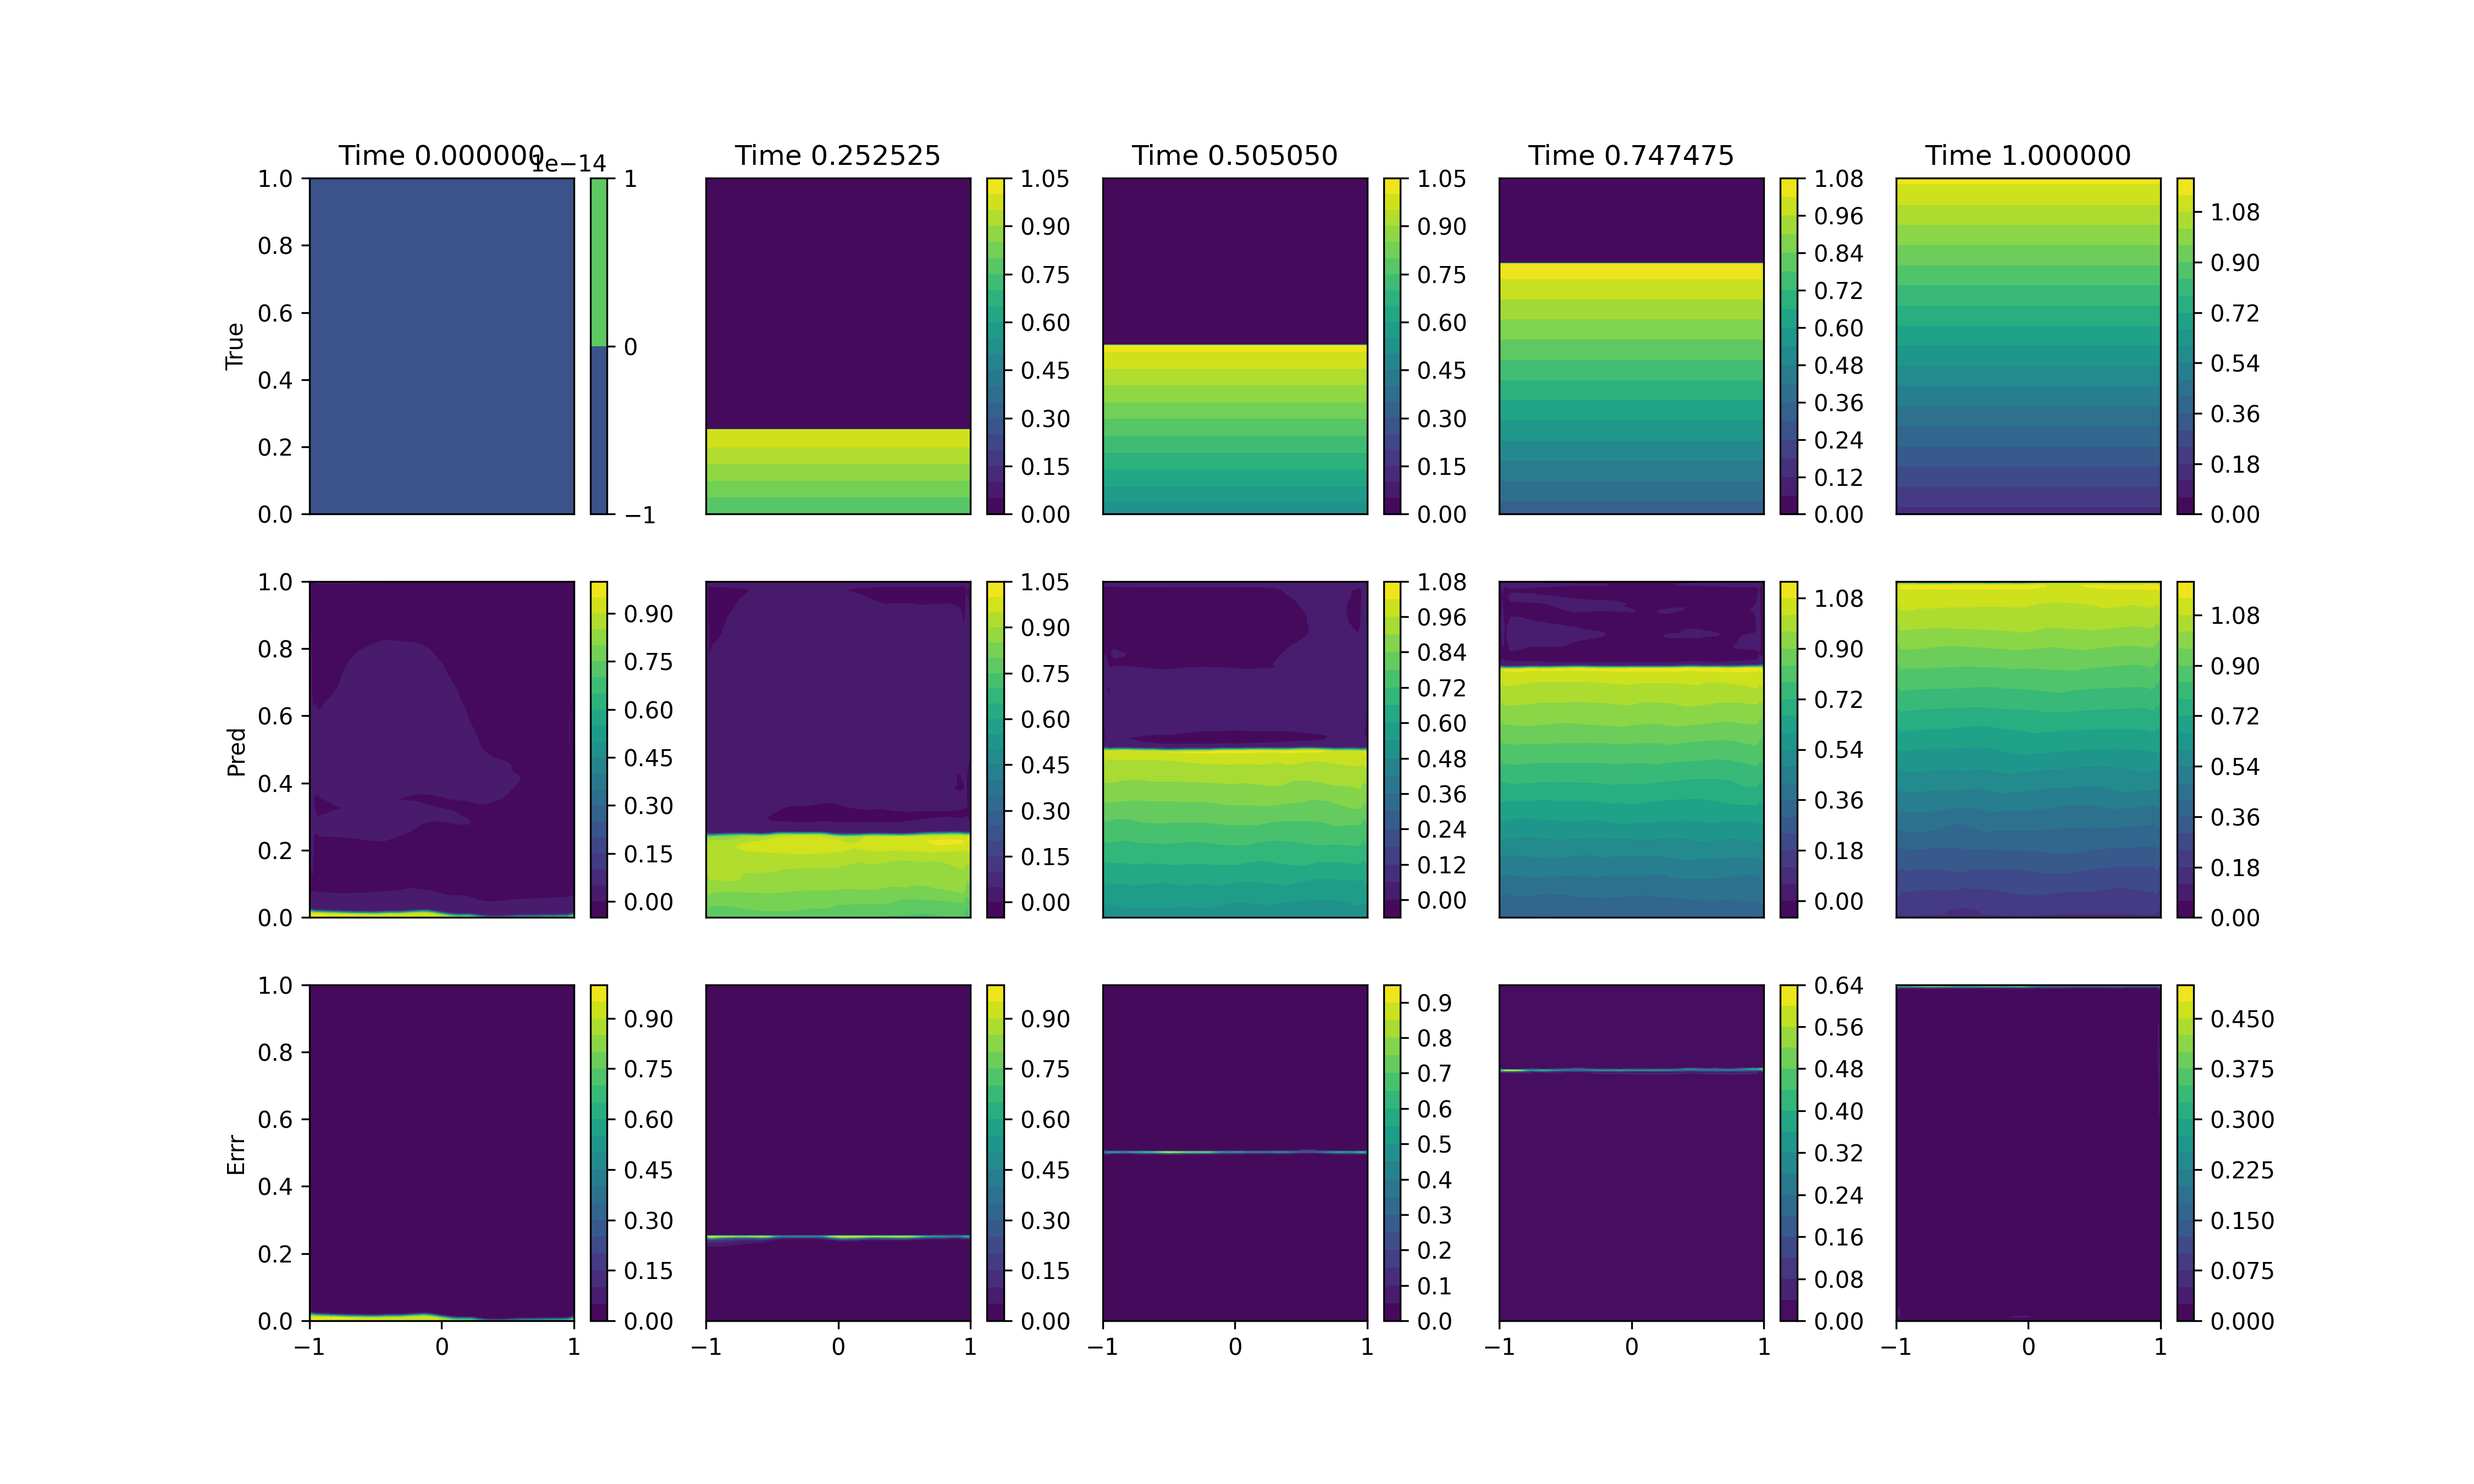
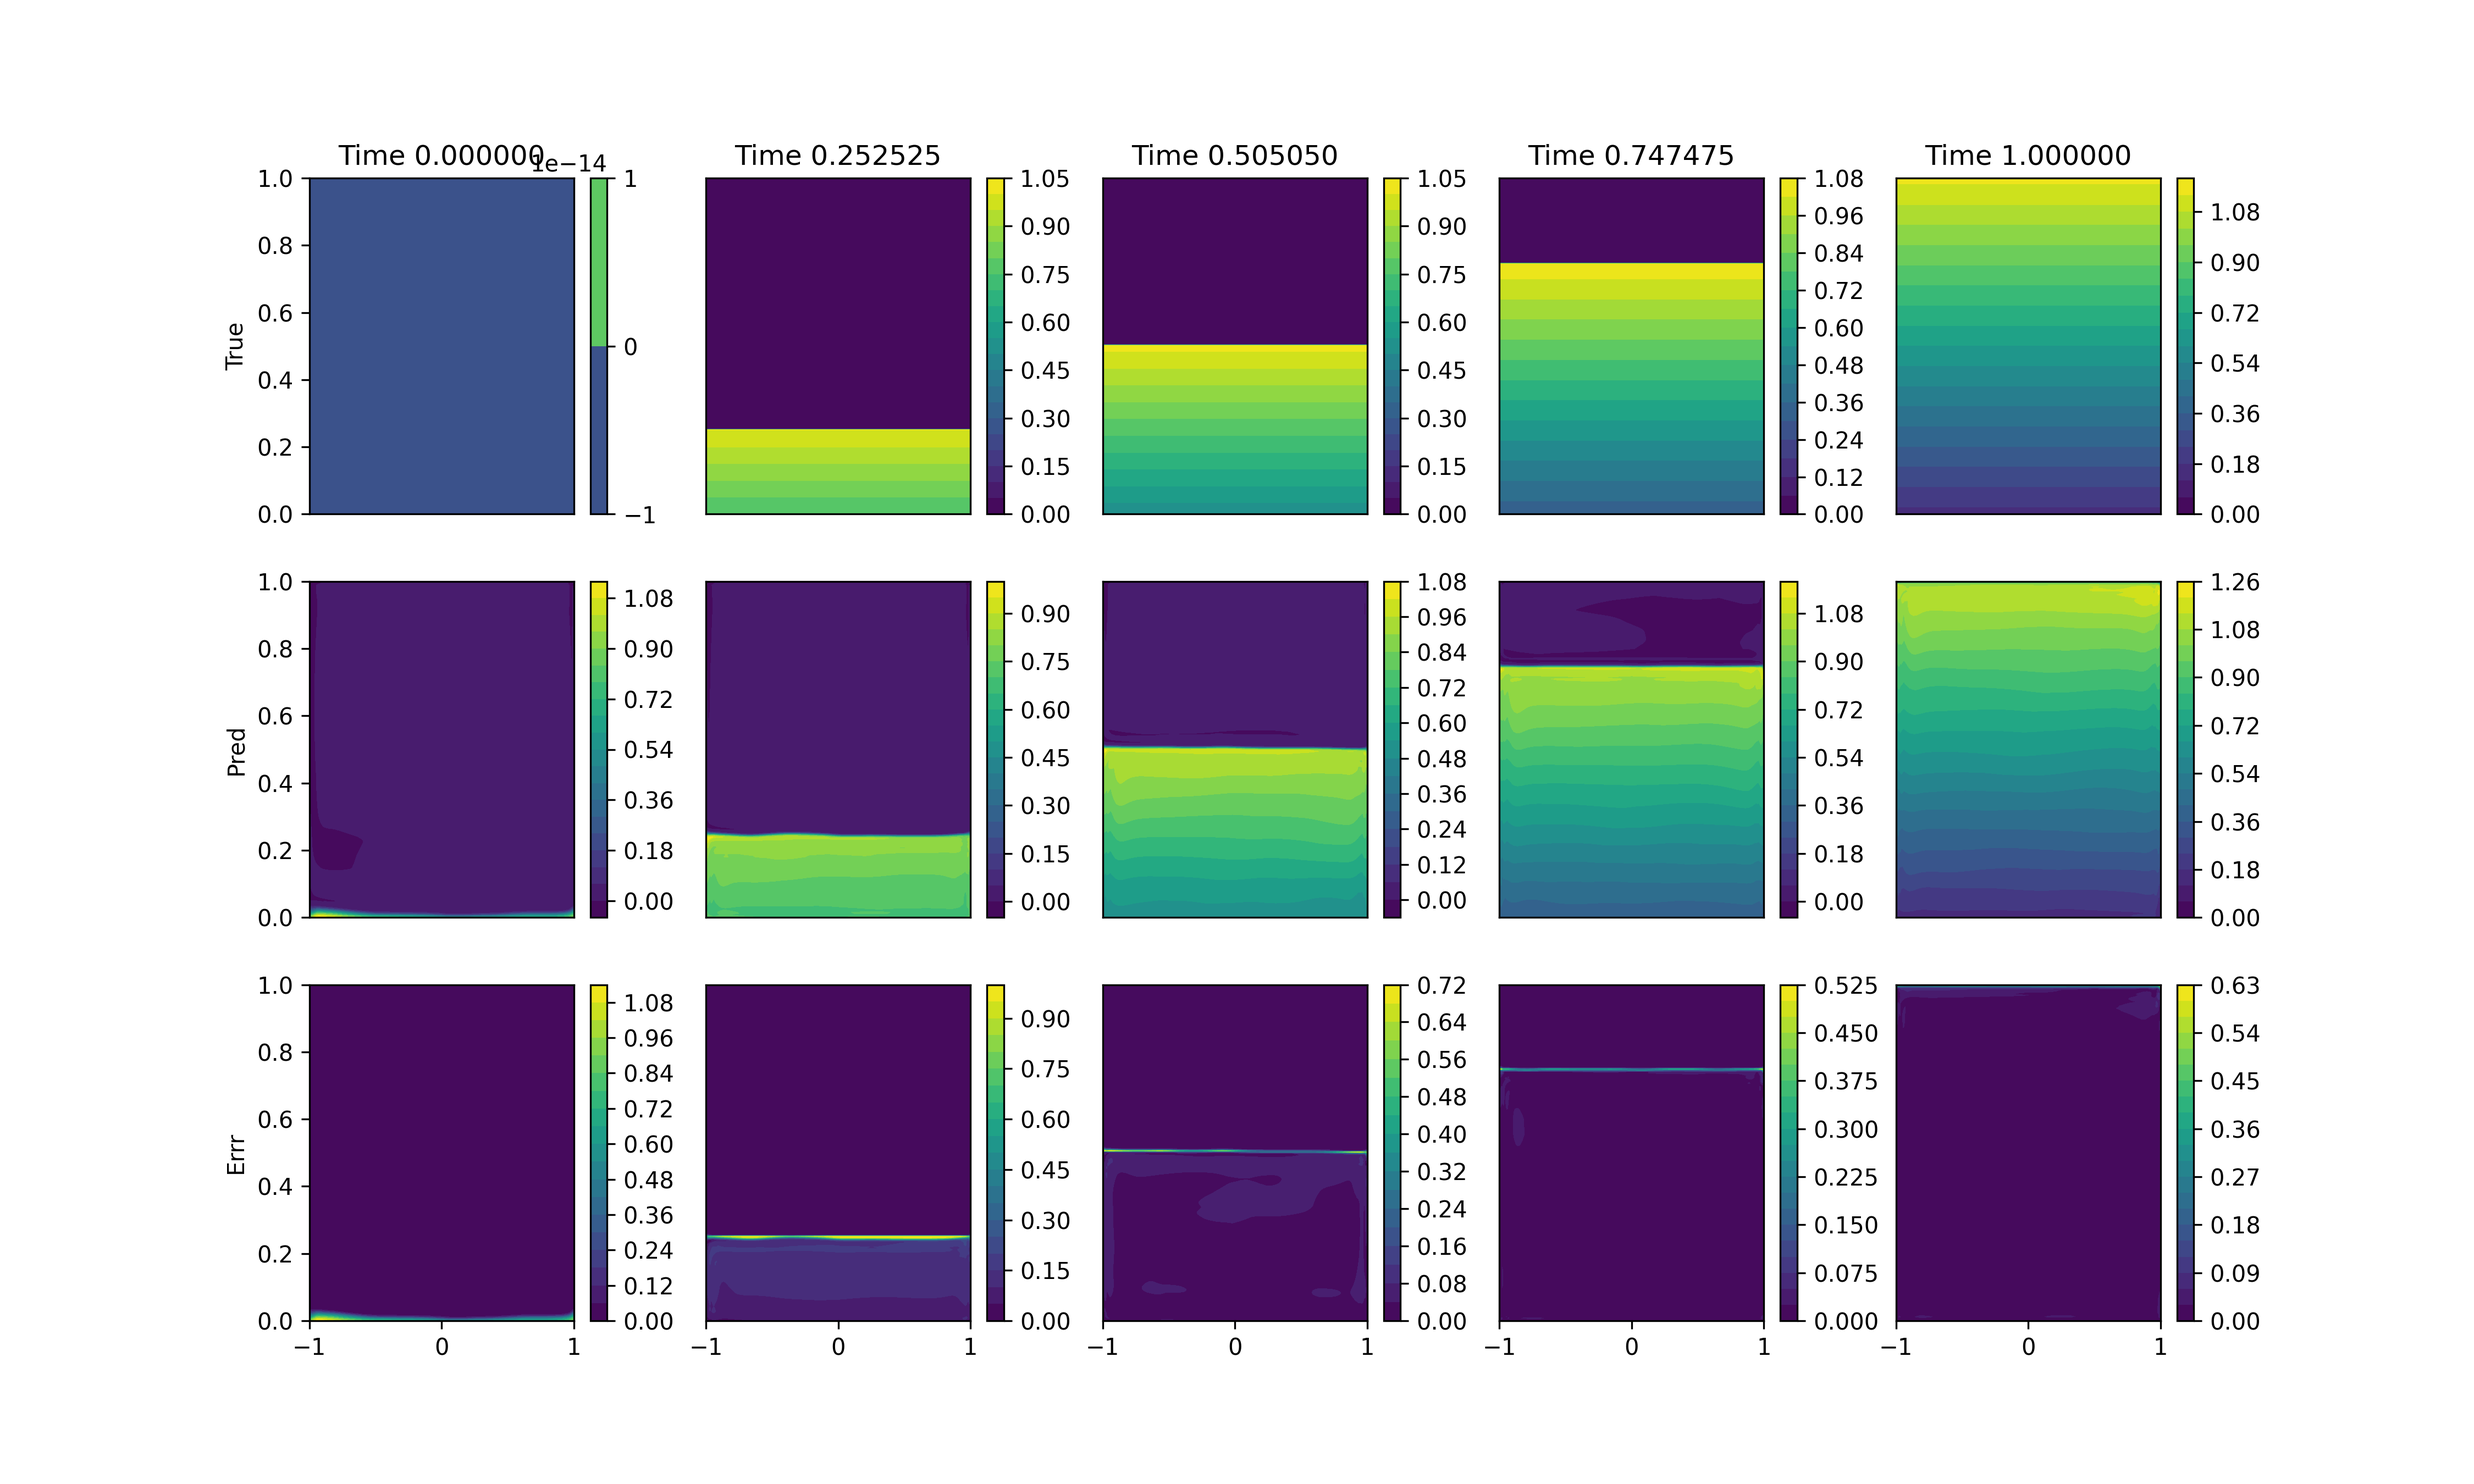
latest results. cannot get rid of the CNN error even with a larger kernel

diff --git a/sandbox/__main__.py b/sandbox/__main__.py
@@ -15,20 +15,21 @@ import argparse
 import sandbox
 import mlutils
 
-class UNetNextstep(nn.Module):
-    def __init__(self, shape, ci, co):
+class MaskedUNet(nn.Module):
+    def __init__(self, shape, ci, co, k):
         super().__init__()
 
         M = shape.final_mask().unsqueeze(0).unsqueeze(0)
         self.register_buffer('M', M)
-        self.unet = mlutils.UNet(ci, co)
+        self.unet = mlutils.UNet(ci, co, k)
         return
 
     def forward(self, x):
         x = self.unet(x)
         return x * self.M
 #
-def train_cnn_nextstep(device, outdir, resdir, name):
+
+def train_cnn_nextstep(device, outdir, resdir, name, train=True):
 
     modelfile = outdir + "cnn_nextstep_" + name + ".pth"
     imagefile = resdir + "cnn_nextstep_" + name + ".png"
@@ -44,76 +45,43 @@ def train_cnn_nextstep(device, outdir, resdir, name):
     nx, nz, nt = 256, 256, 100
     shape = sandbox.Shape(nx, nz, nt, nw1, nw2)
     data = sandbox.makedata(
-        shape, inputs="T", outputs="T", datatype="image-nextstep",
+        shape, inputs="tT", outputs="T", datatype="image-nextstep",
         mask="finaltime",
     )
 
     # MODEL
-    model = UNetNextstep(shape, 1, 1)
+    ci, co, k = 2, 1, 3
+    model = MaskedUNet(shape, ci, co, k)
 
     # TRAIN
-    lrs = [1e-3, 5e-4, 1e-4, 5e-5, 1e-5]
-    nes = [   2,    5,   10,   10,   10]
-    for i in range(len(lrs)):
-        kw = {
-            "device" : device,
-            "lr" : lrs[i],
-            "_batch_size" : 1,
-            "nepochs" : nes[i],
-        }
-        trainer = mlutils.Trainer(model, data, **kw)
-        trainer.train()
+    if train:
+        lrs = [1e-3, 5e-4, 1e-4, 5e-5, 1e-5]
+        nes = [   2,    5,   10,   10,   10]
+        for i in range(len(lrs)):
+            kw = {
+                "device" : device,
+                "lr" : lrs[i],
+                "_batch_size" : 1,
+                "nepochs" : nes[i],
+            }
+            trainer = mlutils.Trainer(model, data, **kw)
+            trainer.train()
 
-    torch.save(model.to("cpu").state_dict(), modelfile)
+        torch.save(model.to("cpu").state_dict(), modelfile)
 
     # VISUALIZE
     model.load_state_dict(torch.load(modelfile, weights_only=True))
 
     model.eval()
     xztT, _ = data[:]
-    pred = (model(xztT) + xztT).squeeze(1)
+    pred = (model(xztT) + xztT[:, -1].unsqueeze(1)).squeeze(1)
 
     fig = shape.comparison_plot(pred, nextstep=True)
     fig.savefig(imagefile, dpi=300)
 
     return
 
-class UNetCNN(nn.Module):
-    def __init__(self, shape, w=128, act=nn.ReLU()):
-        super().__init__()
-
-        M = shape.final_mask().unsqueeze(0).unsqueeze(0)
-        self.register_buffer('M', M)
-
-        self.encoder = nn.Sequential(                 # [N, 3, 256, 256]
-            mlutils.C2d_block(3, w, None, "2x", act), # [128]
-            mlutils.C2d_block(w, w, None, "2x", act), # [64]
-            mlutils.C2d_block(w, w, None, "2x", act), # [32]
-            mlutils.C2d_block(w, w, None, "2x", act), # [16]
-        )
-        
-        self.bottleneck = nn.Sequential( # [N, w, 16, 16]
-            nn.Conv2d(w, w, kernel_size=3, padding=1), act, # [16]
-            nn.Conv2d(w, w, kernel_size=3, padding=1), act, # [16]
-        )
-        
-        self.decoder = nn.Sequential( # [N, w, 16, 16]
-            mlutils.CT2d_block(w, w, None, "2x", act), # 32
-            mlutils.CT2d_block(w, w, None, "2x", act), # 64
-            mlutils.CT2d_block(w, w, None, "2x", act), # 128
-            mlutils.CT2d_block(w, 1, None, "2x", act), # 256
-        )
-
-        return
-
-    def forward(self, x):
-        x = self.encoder(x)
-        x = self.bottleneck(x)
-        x = self.decoder(x)
-        return x * self.M
-#
-
-def train_cnn(device, outdir, resdir, name):
+def train_cnn(device, outdir, resdir, name, train=True):
 
     modelfile = outdir + "cnn_" + name + ".pth"
     imagefile = resdir + "cnn_" + name + ".png"
@@ -133,25 +101,26 @@ def train_cnn(device, outdir, resdir, name):
     )
 
     # MODEL
-    model = UNetCNN(shape)
-    
-    # # TRAIN
-    # lrs = [1e-3, 5e-4, 1e-4, 5e-5, 1e-5]
-    # nes = [   2,    5,   10,   10,   10]
-    # for i in range(len(lrs)):
-    #     kw = {
-    #         "device" : device,
-    #         "lr" : lrs[i],
-    #         "_batch_size" : 1,
-    #         "nepochs" : nes[i],
-    #     }
-    #     trainer = mlutils.Trainer(model, data, **kw)
-    #     trainer.train()
-    #
-    # torch.save(model.to("cpu").state_dict(), modelfile)
+    ci, co, k = 3, 1, 3
+    model = MaskedUNet(shape, ci, co, k)
+
+    # TRAIN
+    if train:
+        lrs = [1e-3, 5e-4, 1e-4, 5e-5, 1e-5]
+        nes = [   2,    5,   10,   10,   10]
+        for i in range(len(lrs)):
+            kw = {
+                "device" : device,
+                "lr" : lrs[i],
+                "_batch_size" : 1,
+                "nepochs" : nes[i],
+            }
+            trainer = mlutils.Trainer(model, data, **kw)
+            trainer.train()
+
+        torch.save(model.to("cpu").state_dict(), modelfile)
 
     # VISUALIZE
-    model = UNetCNN(shape)
     model.load_state_dict(torch.load(modelfile, weights_only=True))
 
     model.eval()
@@ -184,7 +153,7 @@ class ScalarCNN(nn.Module):
         x = self.cnn(x)
         return x * self.M
 
-def train_scalar_cnn(device, outdir, resdir, name):
+def train_scalar_cnn(device, outdir, resdir, name, train=True):
 
     modelfile = outdir + "scalar_cnn_" + name + ".pth"
     imagefile = resdir + "scalar_cnn_" + name + ".png"
@@ -208,17 +177,18 @@ def train_scalar_cnn(device, outdir, resdir, name):
     model = ScalarCNN(shape)
     
     # TRAIN
-    for lr in [1e-3, 5e-4, 1e-4, 5e-5, 1e-5]:
-        kw = {
-            "device" : device,
-            "lr" : lr,
-            "_batch_size" : 1,
-            "nepochs" : 20,
-        }
-        trainer = mlutils.Trainer(model, data, **kw)
-        trainer.train()
-    
-    torch.save(model.to("cpu").state_dict(), modelfile)
+    if train:
+        for lr in [1e-3, 5e-4, 1e-4, 5e-5, 1e-5]:
+            kw = {
+                "device" : device,
+                "lr" : lr,
+                "_batch_size" : 1,
+                "nepochs" : 20,
+            }
+            trainer = mlutils.Trainer(model, data, **kw)
+            trainer.train()
+        
+        torch.save(model.to("cpu").state_dict(), modelfile)
 
     # VISUALIZE
     model = ScalarCNN(shape)
@@ -233,7 +203,7 @@ def train_scalar_cnn(device, outdir, resdir, name):
 
     return
 
-def train_mlp_sdf(device, outdir, resdir):
+def train_mlp_sdf(device, outdir, resdir, train=True):
 
     modelfile = outdir + "mlp_sdf" + ".pth"
     imagefile = resdir + "mlp_sdf" + ".png"
@@ -255,24 +225,27 @@ def train_mlp_sdf(device, outdir, resdir):
     model = nn.Sequential(*model, mlutils.SDFClamp(sdf_clamp))
 
     # TRAIN
-    for lr in [1e-3, 5e-4, 1e-4, 5e-5, 1e-5]:
-        kw = {
-            "device" : device,
-            "lr" : lr,
-            "_batch_size" : 128,
-            "nepochs" : 5,
-            "Schedule" : None,
-            "lossfun" : nn.L1Loss(),
-        }
+    if train:
+        for lr in [1e-3, 5e-4, 1e-4, 5e-5, 1e-5]:
+            kw = {
+                "device" : device,
+                "lr" : lr,
+                "_batch_size" : 128,
+                "nepochs" : 5,
+                "Schedule" : None,
+                "lossfun" : nn.L1Loss(),
+            }
 
-        trainer = mlutils.Trainer(model, _data, data_, **kw)
-        trainer.train()
+            trainer = mlutils.Trainer(model, _data, data_, **kw)
+            trainer.train()
 
-    torch.save(model.to("cpu").state_dict(), modelfile)
+        torch.save(model.to("cpu").state_dict(), modelfile)
+
+    # VISUALIZE
 
     return
 
-def train_mlp(device, outdir, resdir, name):
+def train_mlp(device, outdir, resdir, name, train=True):
 
     modelfile = outdir + "mlp" + name + ".pth"
     imagefile = resdir + "mlp" + name + ".png"
@@ -299,19 +272,20 @@ def train_mlp(device, outdir, resdir, name):
     out_dim = next(iter(_data))[1].shape[0]
     model = mlutils.MLP(in_dim, out_dim, width, hidden_dim, siren=True)
 
-    # # TRAIN
-    # for lr in [1e-3, 5e-4, 1e-4, 5e-5, 1e-5]:
-    #     kw = {
-    #         "device" : device,
-    #         "lr" : lr,
-    #         "_batch_size" : 512,
-    #         "nepochs" : 10,
-    #         "Schedule" : None,
-    #     }
-    #     trainer = mlutils.Trainer(model, _data, data_, **kw)
-    #     trainer.train()
-    #
-    # torch.save(model.to("cpu").state_dict(), modelfile)
+    # TRAIN
+    if train:
+        for lr in [1e-3, 5e-4, 1e-4, 5e-5, 1e-5]:
+            kw = {
+                "device" : device,
+                "lr" : lr,
+                "_batch_size" : 512,
+                "nepochs" : 10,
+                "Schedule" : None,
+            }
+            trainer = mlutils.Trainer(model, _data, data_, **kw)
+            trainer.train()
+        
+        torch.save(model.to("cpu").state_dict(), modelfile)
 
     # VISUALIZE
     model.load_state_dict(torch.load(modelfile, weights_only=True))

diff --git a/mlutils/models.py b/mlutils/models.py
@@ -143,30 +143,32 @@ def CT2d_block(ci, co, k=None, ctype=None, act=None, lnsize=None):
 # UNet
 # https://github.com/usuyama/pytorch-unet
 #------------------------------------------------#
-def double_conv(ci, co):
+def double_conv(ci, co, k):
+    assert k % 2 == 1
+    p = (k - 1) // 2
+
     return nn.Sequential(
-        nn.Conv2d(ci, co, kernel_size=3, padding=1),
+        nn.Conv2d(ci, co, kernel_size=k, padding=p),
         nn.ReLU(inplace=True),
-        nn.Conv2d(co, co, kernel_size=3, padding=1),
+        nn.Conv2d(co, co, kernel_size=k, padding=p),
         nn.ReLU(inplace=True)
     )
 
-
 class UNet(nn.Module):
-    def __init__(self, ci, co):
+    def __init__(self, ci, co, k):
         super().__init__()
 
-        self.dconv_down1 = double_conv(ci, 64)
-        self.dconv_down2 = double_conv(64, 128)
-        self.dconv_down3 = double_conv(128, 256)
-        self.dconv_down4 = double_conv(256, 512)
+        self.dconv_down1 = double_conv(ci ,  64, k)
+        self.dconv_down2 = double_conv(64 , 128, k)
+        self.dconv_down3 = double_conv(128, 256, k)
+        self.dconv_down4 = double_conv(256, 512, k)
 
         self.maxpool = nn.MaxPool2d(2)
-        self.upsample = nn.Upsample(scale_factor=2, mode='bilinear', align_corners=True)        
+        self.upsample = nn.Upsample(scale_factor=2, mode='bilinear', align_corners=True)
 
-        self.dconv_up3 = double_conv(256 + 512, 256)
-        self.dconv_up2 = double_conv(128 + 256, 128)
-        self.dconv_up1 = double_conv(128 + 64, 64)
+        self.dconv_up3 = double_conv(256 + 512, 256, k)
+        self.dconv_up2 = double_conv(128 + 256, 128, k)
+        self.dconv_up1 = double_conv(128 +  64,  64, k)
 
         self.conv_last = nn.Conv2d(64, co, 1)
 
@@ -187,11 +189,11 @@ class UNet(nn.Module):
 
         x = self.dconv_up3(x)
         x = self.upsample(x)        
-        x = torch.cat([x, conv2], dim=1)       
+        x = torch.cat([x, conv2], dim=1)
 
         x = self.dconv_up2(x)
         x = self.upsample(x)        
-        x = torch.cat([x, conv1], dim=1)   
+        x = torch.cat([x, conv1], dim=1)
 
         x = self.dconv_up1(x)
 

diff --git a/sandbox/shape.py b/sandbox/shape.py
@@ -80,7 +80,7 @@ class Shape:
 
     def final_mask(self):
         _, (M, _, _, _) = self.fields_dense()
-        return M[-1, :, :]
+        return M[-1]
 
     def plot(self, nt_plt = 5):
         _, (mask, temp, disp, sdf) = self.fields_dense()
